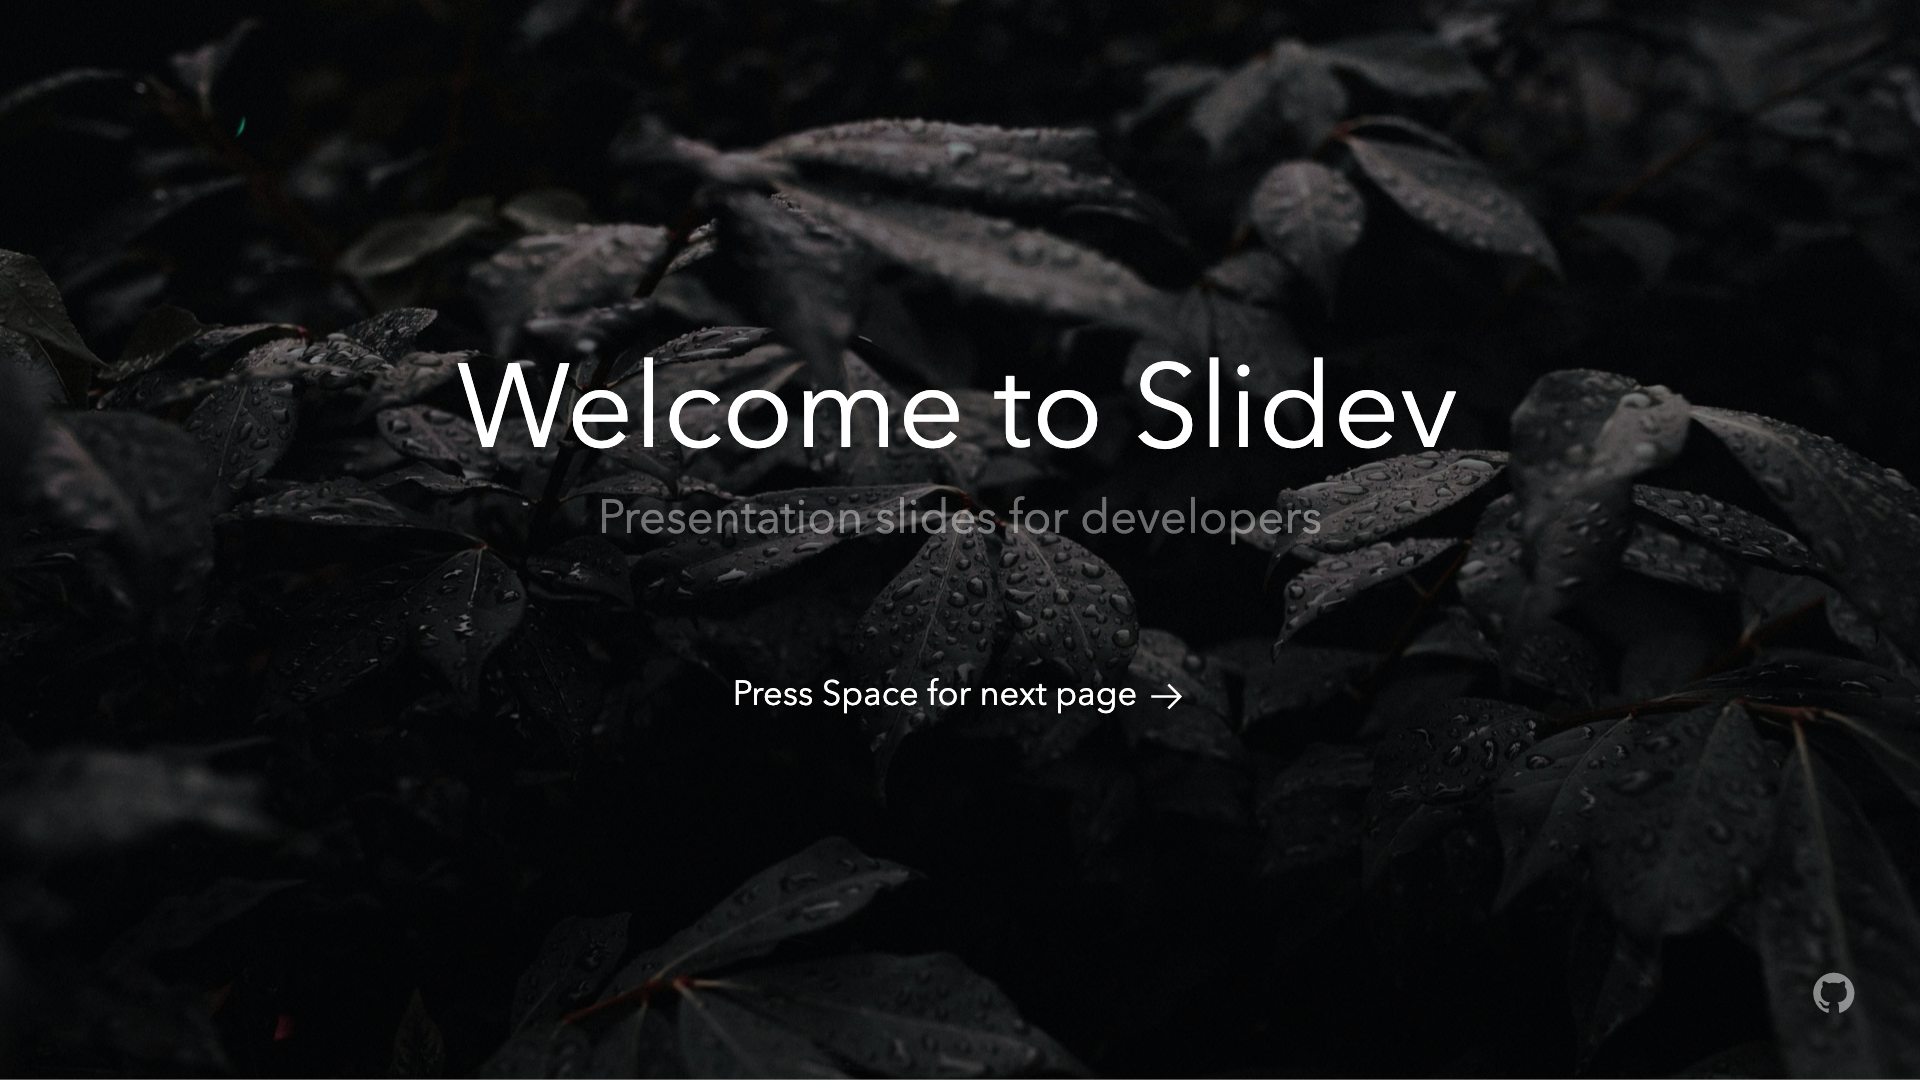
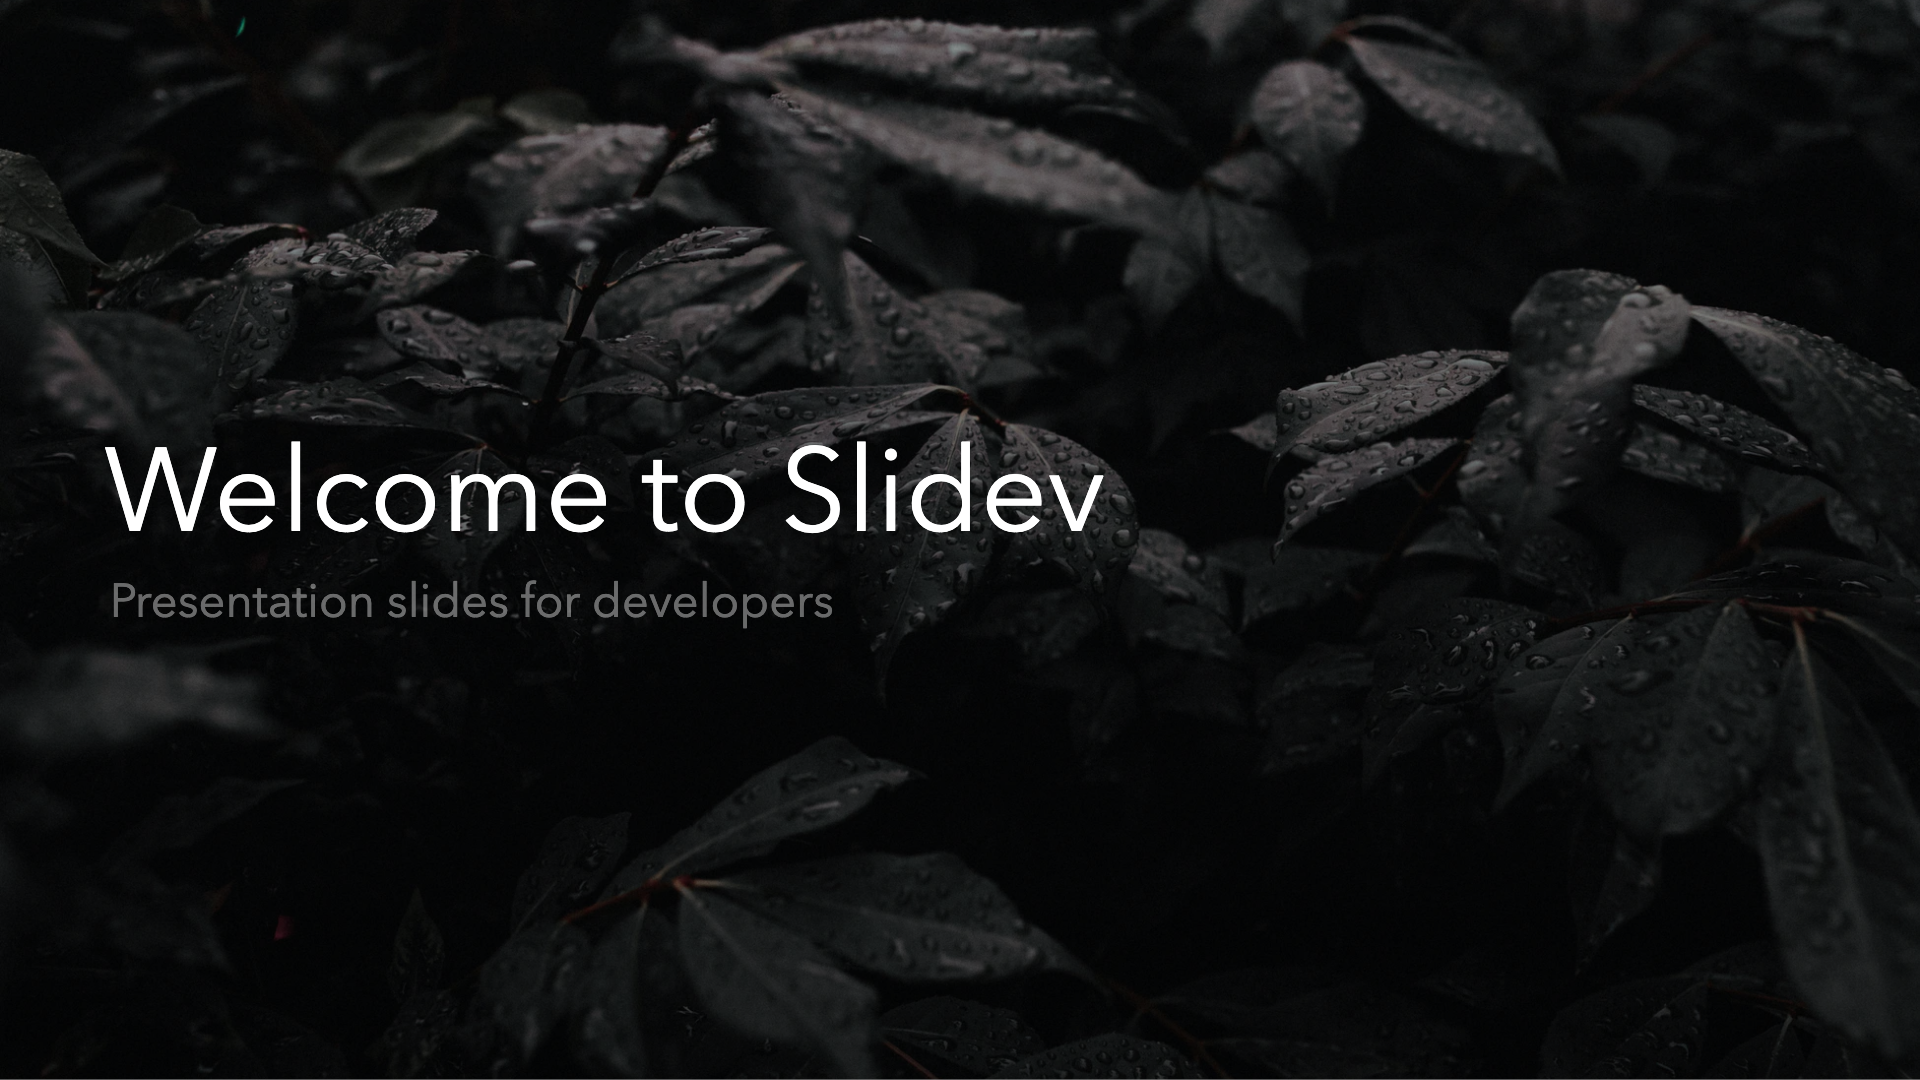
chore: update screenshots

diff --git a/packages/theme-seriph/styles/layout.css b/packages/theme-seriph/styles/layout.css
@@ -91,13 +91,13 @@
 
 .layout-master.cover,
 .layout-master.intro {
-  @apply h-full flex;
+  @apply h-full grid;
 
   h1 {
-    @apply text-6xl leading-20 font-400;
+    @apply text-6xl leading-20;
   }
 
   h1 + p {
-    @apply opacity-40 -mt-4 mb-16 text-2xl;
+    @apply opacity-40 -mt-4 text-2xl;
   }
 }

diff --git a/packages/theme-default/styles/layout.css b/packages/theme-default/styles/layout.css
@@ -85,13 +85,13 @@
 
 .layout-master.cover,
 .layout-master.intro {
-  @apply h-full flex;
+  @apply h-full grid;
 
   h1 {
     @apply text-6xl leading-20;
   }
 
   h1 + p {
-    @apply opacity-40 -mt-4 mb-16 text-2xl;
+    @apply opacity-40 -mt-4 text-2xl;
   }
 }

diff --git a/packages/create-app/template/slides.md b/packages/create-app/template/slides.md
@@ -4,15 +4,17 @@ theme: '@slidev/theme-seriph'
 # random image from a curated Unsplash collection by Anthony
 background: 'https://source.unsplash.com/collection/94734566/1920x1080'
 # apply any windi css classes to the current slide
-# class: 'text-center'
+class: 'text-center'
 ---
 
 # Welcome to Slidev
 
 Presentation slides for developers
 
-<div @click="next" class="px-2 p-1 -mb-4 rounded inline cursor-pointer hover:bg-white hover:bg-opacity-10">
-  Press Space for next page <carbon-arrow-right class="inline"/>
+<div class="pt-12">
+  <span @click="next" class="px-2 p-1 rounded cursor-pointer hover:bg-white hover:bg-opacity-10">
+    Press Space for next page <carbon:arrow-right class="inline"/>
+  </span>
 </div>
 
 <a href="https://github.com/slidevjs/slidev" target="_blank" alt="GitHub"
